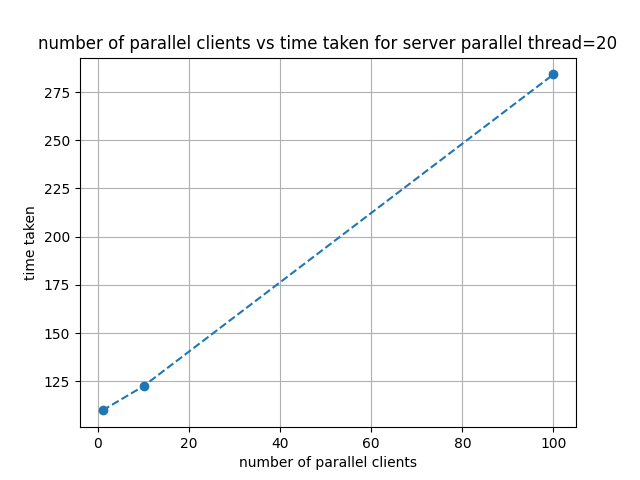
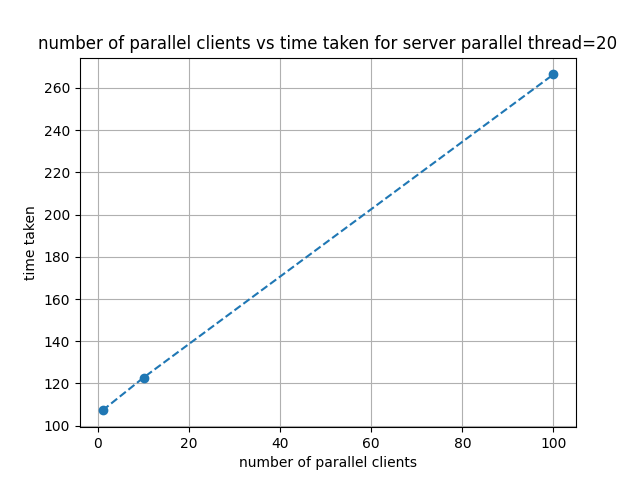
Plots of performance analysis after load balancing added

diff --git a/sample/client1/results/plot.py b/sample/client1/results/plot.py
@@ -1,0 +1,56 @@
+#data collected through client-server application 
+
+import matplotlib
+import matplotlib.pyplot as plt
+
+no_of_workers=[10**(i) for i in range(3)]
+
+#1 thread, 1 instance
+a=[157.50400000000002, 1020.7839999999999, 10142.723]
+
+#10 thread, 1 instance
+b=[107.654, 108.06, 1115.817]
+
+#20 thread, 1 instance
+c=[108.459, 137.488, 598.222]
+
+#50 thread, 1 instance
+d=[127.78500000000001, 130.663, 587.3009999999999]
+
+#100 thread, 1 instance
+e = [117.763, 127.661, 617.8900000000001]
+
+#1 thread, 3 instance
+f=[105.47, 413.497, 3472.032]
+
+#10 thread, 3 instance
+g=[106.651, 115.842, 422.477]
+
+# 20 threads, 3 instances
+h=[107.795, 113.66, 305.535] 
+
+#50 thread, 3 instance
+i=[111.296, 134.768, 284.04699999999997]
+
+#100 thread, 3 instance
+j=[362.058, 123.019, 283.555]
+
+plt.xlabel('number of parallel clients')
+plt.ylabel('time taken in milliseconds')
+plt.grid(True)
+
+plt.title('number of parallel clients vs time taken for server parallel threads')
+
+plt.plot(no_of_workers, a,'b',linestyle='--',marker='o')
+plt.plot(no_of_workers, b,'g',linestyle='--',marker='o')
+plt.plot(no_of_workers, c,'r',linestyle='--',marker='o')
+plt.plot(no_of_workers, d,'c',linestyle='--',marker='o')
+plt.plot(no_of_workers, e,'m',linestyle='--',marker='o')
+plt.plot(no_of_workers, f,'b',linestyle='-',marker='o')
+plt.plot(no_of_workers, g,'g',linestyle='-',marker='o')
+plt.plot(no_of_workers, h,'r',linestyle='-',marker='o')
+plt.plot(no_of_workers, i,'c',linestyle='-',marker='o')
+plt.plot(no_of_workers, j,'m',linestyle='-',marker='o')
+plt.show()
+
+
